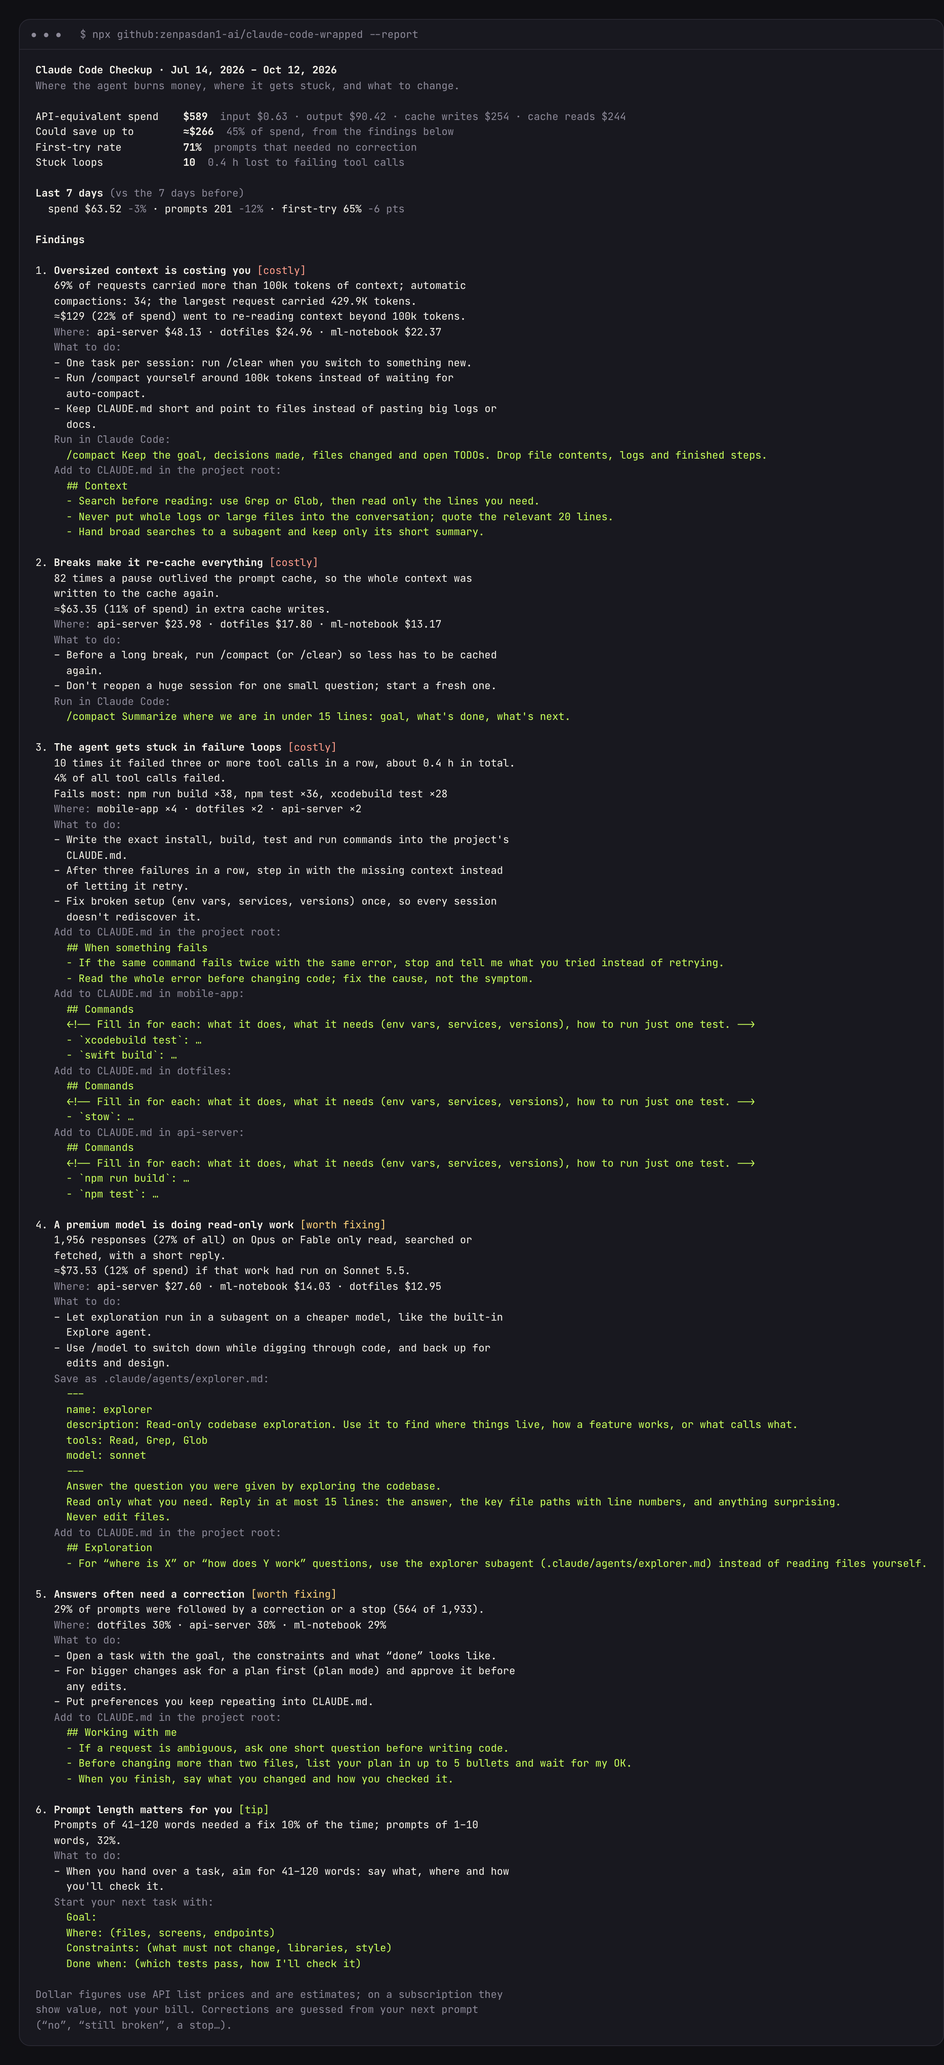
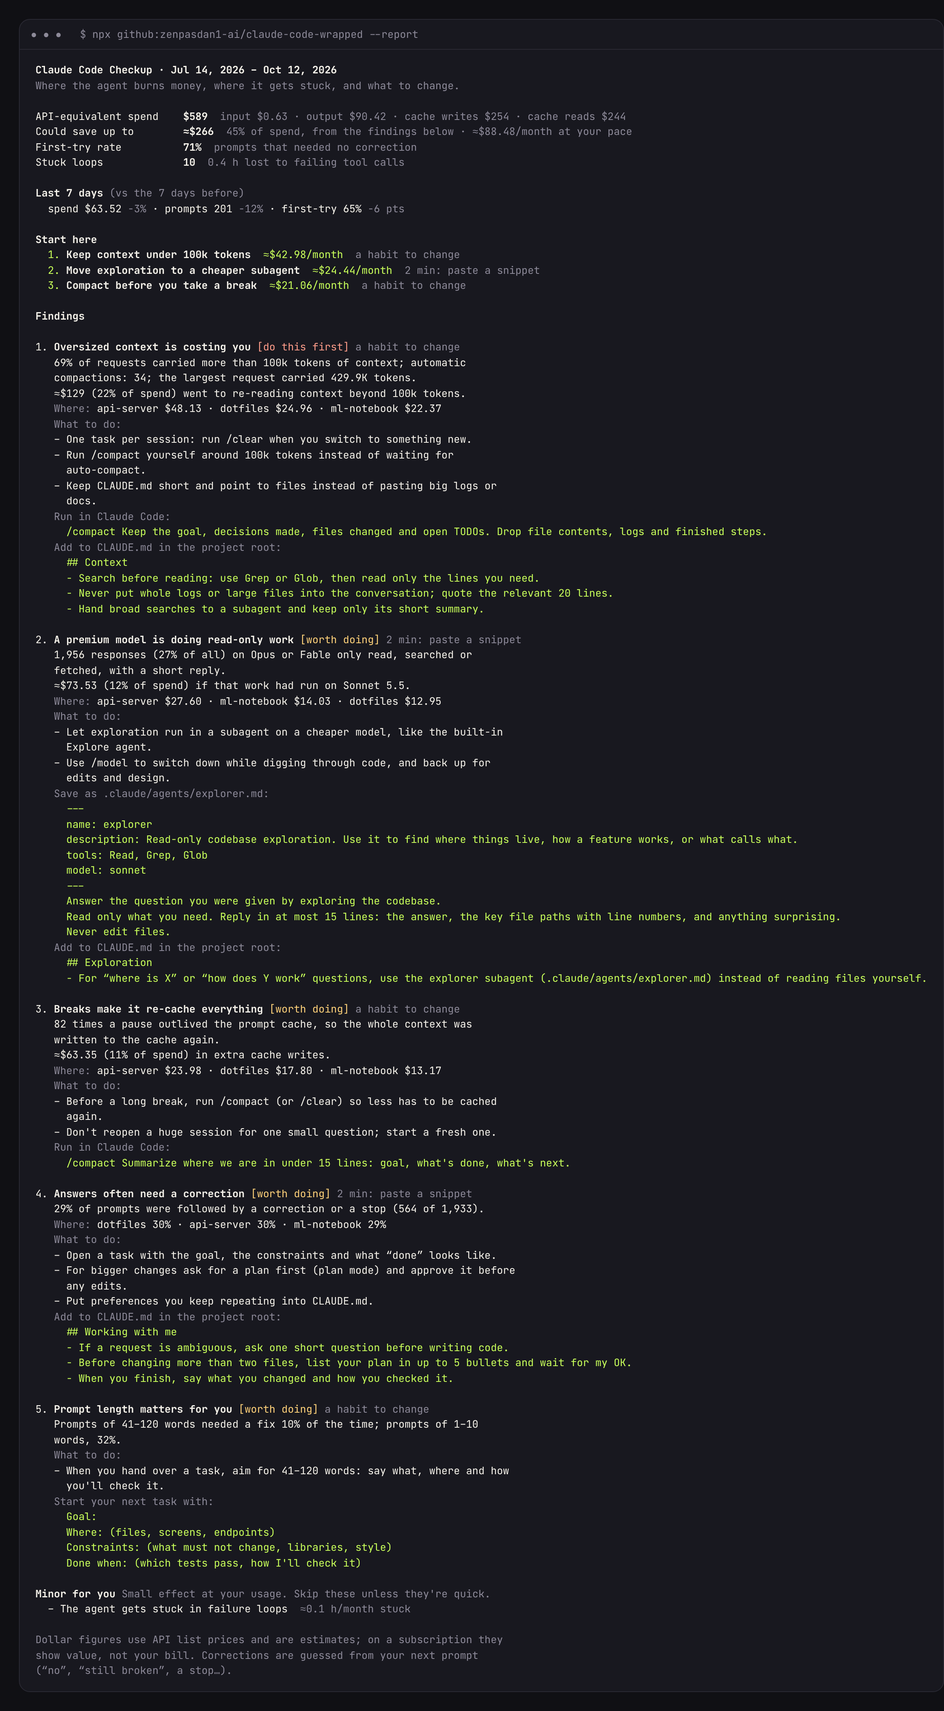
Rank findings by what they're worth to you; English by default
- Each finding is do-this-first, worth-doing or minor, from its value at
  the person's own pace (dollars or hours per month, correction rate)
  and the effort of the fix; minor ones are collapsed
- A Start here list with the top three, their monthly value and effort
- Monthly savings at your pace when there are 7+ days of history
- English by default on the page (Russian via the toggle, remembered)
  and in the terminal (--lang ru)

Claude-Session: https://claude.ai/code/session_01KKdcVECX1CrKS1fmTgwHWm

Changed region(s): [[0.0309, 0.0, 0.5564, 0.9963], [0.7419, 0.467, 0.7728, 0.4982], [0.4637, 0.9652, 0.4946, 0.9963]]

diff --git a/js/checkup.js b/js/checkup.js
@@ -9,6 +9,12 @@ const MIN_JUDGED = 20; // prompts with a known outcome before correction rates m
 const MIN_BUCKET = 15;
 const MIN_PROJECT_JUDGED = 10;
 const MIN_TOOL_RESULTS = 10;
+const MIN_DAYS_FOR_MONTHLY = 7; // shorter histories show totals instead of a monthly pace
+const LEVELS = ["high", "medium", "low"];
+// How much work each fix takes: paste a snippet, paste and fill in, or change a habit.
+const EFFORT = { context: "habit", cold: "habit", fit: "paste", loops: "fill", corrections: "paste", promptLength: "habit" };
+const EFFORT_ORDER = { paste: 0, fill: 1, habit: 2 };
+const PLAN_SIZE = 3;
 
 export function buildCheckup(acc, stats) {
   const total = stats.cost;
@@ -24,15 +30,21 @@ export function buildCheckup(acc, stats) {
   const tip = promptLengthTip(acc);
   if (tip) findings.push(tip);
 
-  const order = { bad: 0, warn: 1, tip: 2 };
-  findings.sort((a, b) => order[a.level] - order[b.level] || b.save - a.save);
+  const days = Math.max(1, (stats.to - stats.from) / DAY_MS);
+  const perMonth = days >= MIN_DAYS_FOR_MONTHLY ? (v) => (v * 30) / days : () => null;
+  for (const f of findings) prioritize(f, perMonth);
+  findings.sort((a, b) =>
+    LEVELS.indexOf(a.level) - LEVELS.indexOf(b.level) || b.save - a.save || EFFORT_ORDER[a.effort] - EFFORT_ORDER[b.effort]);
   const savings = findings.reduce((s, f) => s + (f.save || 0), 0);
 
   return {
     total,
+    days,
     spend: { ...acc.spend },
     savings,
+    savingsMonthly: perMonth(savings),
     savingsShare: total ? savings / total : 0,
+    plan: findings.filter((f) => f.level !== "low").slice(0, PLAN_SIZE),
     firstTry: acc.judged.prompts ? 1 - acc.judged.corrected / acc.judged.prompts : null,
     judged: acc.judged.prompts,
     loops: acc.loops.count,
@@ -57,7 +69,6 @@ function contextCheck(acc, total) {
   if (c.tax < Math.max(1, 0.05 * total)) return [null, { id: "context", value: facts.longShare }];
   return [{
     id: "context",
-    level: share >= 0.2 ? "bad" : "warn",
     save: c.tax,
     share,
     facts,
@@ -70,7 +81,6 @@ function coldCacheCheck(acc, total) {
   if (c.cost < Math.max(0.5, 0.03 * total)) return [null, acc.context.requests ? { id: "cold", value: c.events } : null];
   return [{
     id: "cold",
-    level: total && c.cost / total >= 0.1 ? "bad" : "warn",
     save: c.cost,
     share: total ? c.cost / total : 0,
     facts: { events: c.events },
@@ -84,7 +94,6 @@ function modelFitCheck(acc, total) {
   if (save < Math.max(0.5, 0.03 * total)) return [null, acc.context.requests ? { id: "fit", value: f.requests } : null];
   return [{
     id: "fit",
-    level: "warn",
     save,
     share: total ? save / total : 0,
     facts: { requests: f.requests, requestShare: acc.context.requests ? f.requests / acc.context.requests : 0 },
@@ -116,7 +125,6 @@ function loopsCheck(acc) {
     .filter(([, list]) => list.length);
   return [{
     id: "loops",
-    level: l.count >= 10 ? "bad" : "warn",
     save: 0,
     facts: { count: l.count, hours: l.ms / HOUR_MS, errorRate: errors / results, commands, commandsByProject, tools },
     projects,
@@ -130,7 +138,6 @@ function correctionsCheck(acc) {
   if (rate < 0.15) return [null, { id: "corrections", value: rate }];
   return [{
     id: "corrections",
-    level: rate >= 0.3 ? "bad" : "warn",
     save: 0,
     facts: { rate, corrected: j.corrected, judged: j.prompts },
     projects: topProjects(acc, (p) => (p.judged >= MIN_PROJECT_JUDGED ? p.corrected / p.judged : 0), (p) => p.corrected / p.judged),
@@ -148,11 +155,43 @@ function promptLengthTip(acc) {
   if (worst.rate - best.rate < 0.08 || best.rate * 1.5 > worst.rate) return null;
   return {
     id: "promptLength",
-    level: "tip",
     save: 0,
     facts: { best, worst, ratio: best.rate ? worst.rate / best.rate : null },
     projects: [],
   };
+}
+
+// Ranks a finding by what fixing it is worth to this person: money at their pace, hours stuck,
+// or how often answers miss. Anything small at their usage is "low" and gets collapsed.
+function prioritize(f, perMonth) {
+  f.effort = EFFORT[f.id];
+  f.monthly = f.save ? perMonth(f.save) : null;
+  const x = f.facts;
+  switch (f.id) {
+    case "context":
+    case "cold":
+    case "fit": {
+      const amount = f.monthly ?? f.save;
+      f.level = f.share >= 0.15 && amount >= 10 ? "high" : f.share >= 0.05 && amount >= 3 ? "medium" : "low";
+      break;
+    }
+    case "loops": {
+      x.hoursMonthly = perMonth(x.hours);
+      x.countMonthly = perMonth(x.count);
+      const hours = x.hoursMonthly ?? x.hours;
+      const count = x.countMonthly ?? x.count;
+      f.level = hours >= 2 || count >= 15 ? "high" : hours >= 0.5 || count >= 5 ? "medium" : "low";
+      break;
+    }
+    case "corrections":
+      f.level = x.rate >= 0.3 ? "high" : "medium";
+      break;
+    case "promptLength":
+      f.level = x.worst.rate - x.best.rate >= 0.15 && (x.ratio ?? Infinity) >= 2 ? "medium" : "low";
+      break;
+    default:
+      f.level = "low";
+  }
 }
 
 // The last 7 days against the 7 before them, ending at the newest activity.

diff --git a/js/i18n.js b/js/i18n.js
@@ -108,7 +108,26 @@ const EN = {
   ckDo: "What to do",
   ckHealthy: "Looking good",
   ckNote: "Dollar figures use API list prices and are estimates; on a subscription they show value, not your bill. Corrections are guessed from your next prompt (“no”, “still broken”, a stop…).",
-  ckLevel: { bad: "costly", warn: "worth fixing", tip: "tip" },
+  ckLevel: { high: "do this first", medium: "worth doing", low: "minor" },
+  ckEffort: { paste: "2 min: paste a snippet", fill: "10 min: paste and fill in", habit: "a habit to change" },
+  startHere: "Start here",
+  startHereLead: "Ranked by what it's worth at your usage and how little it takes.",
+  startHereNone: "Nothing here is worth your time right now. Keep doing what you do.",
+  gainMonth: "≈{money}/month",
+  gainTotal: "≈{money} in this period",
+  gainHoursMonth: "≈{hours} h/month stuck",
+  gainLoops: "{count} stuck loops",
+  gainCorrections: "{rate} of prompts need a fix",
+  gainPromptLength: "fixes drop from {worst} to {best}",
+  plan_context: "Keep context under 100k tokens",
+  plan_cold: "Compact before you take a break",
+  plan_fit: "Move exploration to a cheaper subagent",
+  plan_loops: "Write your build and test commands into CLAUDE.md",
+  plan_corrections: "Set the goal and ask for a plan up front",
+  plan_promptLength: "Write {best}-word task briefs",
+  minorTitle: "Minor for you",
+  minorLead: "Small effect at your usage. Skip these unless they're quick.",
+  ckSavingsMonth: "≈{money}/month at your pace",
   ckBuckets: ["1–10", "11–40", "41–120", "120+"],
   f_context_title: "Oversized context is costing you",
   f_context_line: "{longShare} of requests carried more than 100k tokens of context; automatic compactions: {compactions}; the largest request carried {max} tokens.",
@@ -338,7 +357,26 @@ const RU = {
   ckDo: "Что сделать",
   ckHealthy: "Всё в порядке",
   ckNote: "Суммы посчитаны по прайсу API и примерные; на подписке это ценность, а не ваш счёт. Поправки угадываются по следующему промпту («нет», «всё равно не работает», стоп…).",
-  ckLevel: { bad: "дорого", warn: "стоит исправить", tip: "совет" },
+  ckLevel: { high: "сделать в первую очередь", medium: "стоит сделать", low: "незначительно" },
+  ckEffort: { paste: "2 мин: вставить фрагмент", fill: "10 мин: вставить и заполнить", habit: "поменять привычку" },
+  startHere: "Начните с этого",
+  startHereLead: "По порядку: сколько это даёт при вашем использовании и сколько усилий требует.",
+  startHereNone: "Сейчас ничего не стоит вашего времени. Продолжайте в том же духе.",
+  gainMonth: "≈{money}/мес.",
+  gainTotal: "≈{money} за период",
+  gainHoursMonth: "≈{hours} ч/мес. в застреваниях",
+  gainLoops: "застреваний: {count}",
+  gainCorrections: "{rate} промптов требуют поправки",
+  gainPromptLength: "поправок станет {best} вместо {worst}",
+  plan_context: "Держите контекст меньше 100 тыс. токенов",
+  plan_cold: "Сжимайте контекст перед перерывом",
+  plan_fit: "Отдайте исследование кода дешёвому подагенту",
+  plan_loops: "Запишите команды сборки и тестов в CLAUDE.md",
+  plan_corrections: "Ставьте цель и просите план заранее",
+  plan_promptLength: "Пишите задачи по {best} слов",
+  minorTitle: "Для вас незначительно",
+  minorLead: "При вашем использовании эффект маленький. Делайте, только если это быстро.",
+  ckSavingsMonth: "≈{money}/мес. в вашем темпе",
   ckBuckets: ["1–10", "11–40", "41–120", "120+"],
   f_context_title: "Раздутый контекст стоит денег",
   f_context_line: "{longShare} запросов несли больше 100 тыс. токенов контекста; автоматических сжатий: {compactions}; самый большой запрос нёс {max} токенов.",
@@ -462,9 +500,8 @@ const RU = {
 
 const DICTS = { en: EN, ru: RU };
 
-// Node 21+ has navigator too, so the terminal report follows the system language.
-const systemLanguage = typeof navigator !== "undefined" && navigator.language ? navigator.language : "en";
-export let lang = systemLanguage.toLowerCase().startsWith("ru") ? "ru" : "en";
+// English unless someone picks Russian (the page's toggle, or --lang ru in the terminal).
+export let lang = "en";
 
 export function setLang(next) {
   lang = DICTS[next] ? next : "en";

diff --git a/js/report.js b/js/report.js
@@ -1,6 +1,6 @@
 // The checkup page: totals, the last week, findings with fixes, and what's already fine.
 
-import { delta, describeFinding, describeHealthy } from "./checkup-text.js";
+import { delta, describeFinding, describeHealthy, describePlanItem } from "./checkup-text.js";
 import { buildFixes, claudeMdAdditions } from "./fixes.js";
 import { date, fill, money, num, percent, t } from "./i18n.js";
 
@@ -13,6 +13,8 @@ const SPEND_PARTS = [
 
 export function renderReport(s) {
   const c = s.checkup;
+  const main = c.findings.filter((f) => f.level !== "low");
+  const minor = c.findings.filter((f) => f.level === "low");
   return `
     <header class="report-head">
       <p class="kicker">${t("checkupKicker")} · ${date(s.from)} – ${date(s.to)}</p>
@@ -22,15 +24,23 @@ export function renderReport(s) {
 
     <div class="kpis">
       ${kpi(t("ckSpend"), money(c.total), spendBar(c))}
-      ${kpi(t("ckSavings"), c.savings > 0 ? t("ckSavingsValue", { money: money(c.savings) }) : t("ckNoSavings"), c.savings > 0 ? `<p class="kpi-sub">${t("ckSavingsSub", { share: percent(c.savingsShare) })}</p>` : "", c.savings > 0 ? "is-hot" : "")}
+      ${kpi(t("ckSavings"), c.savings > 0 ? t("ckSavingsValue", { money: money(c.savings) }) : t("ckNoSavings"), c.savings > 0 ? `<p class="kpi-sub">${t("ckSavingsSub", { share: percent(c.savingsShare) })}${c.savingsMonthly !== null ? `<br>${t("ckSavingsMonth", { money: money(c.savingsMonthly) })}` : ""}</p>` : "", c.savings > 0 ? "is-hot" : "")}
       ${c.firstTry !== null ? kpi(t("ckFirstTry"), percent(c.firstTry), `<p class="kpi-sub">${t("ckFirstTrySub")}</p>`) : ""}
       ${kpi(t("ckLoops"), num(c.loops), `<p class="kpi-sub">${t("ckLoopsSub", { hours: num(c.loopHours, 1) })}</p>`)}
     </div>
 
+    ${plan(c)}
+
     ${week(c.week)}
 
     <h3 class="section-title">${t("ckFindings")}</h3>
-    ${c.findings.length ? `<ol class="findings">${c.findings.map(finding).join("")}</ol>` : `<p class="line">${t("ckNoFindings")}</p>`}
+    ${main.length ? `<ol class="findings">${main.map(finding).join("")}</ol>` : `<p class="line">${t("ckNoFindings")}</p>`}
+    ${minor.length ? `
+      <details class="minor">
+        <summary><span class="section-title">${t("minorTitle")}</span> <span class="muted">(${minor.length})</span></summary>
+        <p class="sub">${t("minorLead")}</p>
+        <ol class="findings">${minor.map(finding).join("")}</ol>
+      </details>` : ""}
 
     ${allClaudeMd(c.findings)}
 
@@ -43,6 +53,19 @@ export function renderReport(s) {
     <div class="report-cta">
       <button class="btn btn-hot play-story" type="button">${t("playStory")} →</button>
     </div>`;
+}
+
+function plan(c) {
+  if (!c.findings.length) return "";
+  const items = c.plan.map((f) => {
+    const p = describePlanItem(f);
+    return `<li><a href="#finding-${f.id}">${esc(p.action)}</a><span class="plan-gain">${esc(p.gain)}</span><span class="plan-effort">${esc(p.effort)}</span></li>`;
+  });
+  return `
+    <section class="plan">
+      <p class="kicker">${t("startHere")}</p>
+      ${items.length ? `<ol>${items.join("")}</ol><p class="sub">${t("startHereLead")}</p>` : `<p class="line">${t("startHereNone")}</p>`}
+    </section>`;
 }
 
 function kpi(label, value, extra = "", cls = "") {
@@ -73,10 +96,10 @@ function week(w) {
 function finding(f) {
   const d = describeFinding(f);
   return `
-    <li class="finding is-${f.level}">
+    <li class="finding is-${f.level}" id="finding-${f.id}">
       <div class="finding-head">
         <h4>${esc(d.title)}</h4>
-        <span class="badge">${t("ckLevel")[f.level]}</span>
+        <span class="badge">${t("ckLevel")[f.level]} · ${t("ckEffort")[f.effort]}</span>
       </div>
       ${f.save > 0 ? `<p class="finding-save">${esc(d.save)}</p>` : ""}
       <p>${esc(d.line)}</p>

diff --git a/css/site.css b/css/site.css
@@ -306,15 +306,32 @@ a.btn { text-decoration: none; }
 .section-title { margin: 40px 0 14px; font: 800 26px var(--display); letter-spacing: -0.01em; }
 .findings { display: grid; gap: 14px; margin: 0; padding: 0; list-style: none; counter-reset: finding; }
 .finding { padding: 20px 22px; border: 1px solid var(--line); border-left: 4px solid var(--muted); border-radius: 16px; background: var(--panel); }
-.finding.is-bad { border-left-color: #ff9d8a; }
-.finding.is-warn { border-left-color: #ffd27a; }
-.finding.is-tip { border-left-color: var(--lime); }
+.finding.is-high { border-left-color: #ff9d8a; }
+.finding.is-medium { border-left-color: #ffd27a; }
+.finding.is-low { border-left-color: var(--line); }
 .finding-head { display: flex; flex-wrap: wrap; align-items: baseline; justify-content: space-between; gap: 6px 12px; }
 .finding h4 { margin: 0; font: 800 clamp(19px, 2.4vw, 23px)/1.2 var(--display); }
 .badge { padding: 2px 10px; border-radius: 999px; background: var(--bg); color: var(--muted); font-size: 12px; white-space: nowrap; }
-.is-bad .badge { color: #ff9d8a; }
-.is-warn .badge { color: #ffd27a; }
-.is-tip .badge { color: var(--lime); }
+.is-high .badge { color: #ff9d8a; }
+.is-medium .badge { color: #ffd27a; }
+.badge { white-space: normal; }
+
+.plan { margin-top: 12px; padding: 18px; border: 1px solid var(--lime); border-radius: 16px; background: rgba(200, 255, 90, 0.04); }
+.plan .kicker { margin: 0; }
+.plan ol { margin: 12px 0 0; padding-left: 22px; display: grid; gap: 10px; }
+.plan li { padding-left: 4px; }
+.plan li::marker { color: var(--lime); font-weight: 600; }
+.plan a { color: var(--ink); font: 800 clamp(17px, 2vw, 20px)/1.3 var(--display); text-decoration: none; }
+.plan a:hover { text-decoration: underline; text-underline-offset: 4px; }
+.plan-gain { display: inline-block; margin-left: 10px; color: var(--lime); font-weight: 600; }
+.plan-effort { display: block; color: var(--muted); font-size: 12px; }
+.plan .sub { margin-top: 12px; }
+
+.minor { margin-top: 28px; }
+.minor summary { cursor: pointer; list-style-position: outside; }
+.minor summary .section-title { display: inline; margin: 0; font-size: 20px; }
+.minor .findings { margin-top: 12px; opacity: 0.85; }
+.finding { scroll-margin-top: 16px; }
 .finding p { margin: 10px 0 0; text-wrap: pretty; }
 .finding-save { color: var(--lime); font-weight: 600; }
 .where { color: var(--ink); font-size: 13px; }

diff --git a/js/main.js b/js/main.js
@@ -9,6 +9,7 @@ import { buildSlides, countUp } from "./story.js";
 const COPY_CMD = "cp -r ~/.claude/projects ~/Desktop/claude-transcripts";
 const CLI_CMD = "npx github:zenpasdan1-ai/claude-code-wrapped";
 const DAY_MS = 86_400_000;
+const LANG_KEY = "ccw-lang";
 const reduceMotion = window.matchMedia("(prefers-reduced-motion: reduce)").matches;
 const $ = (s, root = document) => root.querySelector(s);
 
@@ -24,7 +25,7 @@ let source = null; // { kind: "demo" } or { kind: "files", files, local? }
 let format = "post";
 let showNames = false;
 
-setLang(lang);
+setLang(savedLang() || "en");
 renderStatic();
 paintPreview();
 
@@ -36,6 +37,11 @@ $(".demo").addEventListener("click", () => run({ kind: "demo" }));
 for (const toggle of document.querySelectorAll(".lang-toggle")) {
   toggle.addEventListener("click", () => {
     setLang(lang === "ru" ? "en" : "ru");
+    try {
+      localStorage.setItem(LANG_KEY, lang);
+    } catch {
+      // Private mode or blocked storage: the choice just won't stick.
+    }
     renderStatic();
     paintPreview();
     if (current && !story.hidden) showStory(index);
@@ -315,6 +321,14 @@ window.addEventListener("keydown", (e) => {
 });
 
 // ---- helpers ----
+
+function savedLang() {
+  try {
+    return localStorage.getItem(LANG_KEY);
+  } catch {
+    return null;
+  }
+}
 
 function renderStatic() {
   for (const node of document.querySelectorAll("[data-t]")) node.textContent = t(node.dataset.t);

diff --git a/js/checkup-text.js b/js/checkup-text.js
@@ -59,6 +59,18 @@ export function describeFinding(f) {
   }
 }
 
+// One line for the "Start here" list: what to do, what it's worth, how much work it is.
+export function describePlanItem(f) {
+  const x = f.facts;
+  let gain = "";
+  if (f.save > 0) gain = f.monthly !== null ? t("gainMonth", { money: money(f.monthly) }) : t("gainTotal", { money: money(f.save) });
+  else if (f.id === "loops") gain = x.hoursMonthly !== null && x.hoursMonthly >= 0.1 ? t("gainHoursMonth", { hours: num(x.hoursMonthly, 1) }) : t("gainLoops", { count: num(x.count) });
+  else if (f.id === "corrections") gain = t("gainCorrections", { rate: percent(x.rate) });
+  else if (f.id === "promptLength") gain = t("gainPromptLength", { worst: percent(x.worst.rate), best: percent(x.best.rate) });
+  const best = f.id === "promptLength" ? t("ckBuckets")[x.best.i] : "";
+  return { action: t(`plan_${f.id}`, { best }), gain, effort: t("ckEffort")[f.effort] };
+}
+
 export function describeHealthy(h) {
   const value = h.id === "context" || h.id === "loops" || h.id === "corrections" ? percent(h.value) : num(h.value);
   return t(`h_${h.id}`, { value });

diff --git a/README.md b/README.md
@@ -30,6 +30,11 @@ re-caching the whole context after breaks longer than the cache lasts. Both have
 | **Corrections** | Prompts followed by a correction (“no”, “still broken”, “не то”…) or a stop, per project | Goal, constraints and “done” up front; plan mode for big changes |
 | **Prompt length** | Correction rate by prompt length, shown only when the gap is large enough to trust | The length that works for you |
 
+Findings are **ranked for you**: *do this first*, *worth doing*, or *minor* (collapsed), by what
+they're worth at your own usage (dollars per month, hours stuck, how often answers miss) and how
+little work the fix takes. A **Start here** list puts the top three at the top with their value
+and effort, so you know what to do and what to skip.
+
 Each finding comes with a **copy-paste fix**: a short `CLAUDE.md` section (your project's own
 failing commands, ready to fill in; rules for when something fails; how to work with you), a
 read-only `explorer` subagent on Sonnet for `.claude/agents/`, a `/compact` command that says what
@@ -69,13 +74,14 @@ archetype (Night Owl, Polite Coder, Opus Maximalist…). Share it as a 1200×675
 - **One command** (Node 18.17+): `npx github:zenpasdan1-ai/claude-code-wrapped`. It finds
   `$CLAUDE_CONFIG_DIR/projects`, `~/.claude/projects` or `~/.config/claude/projects`, serves the
   page on `127.0.0.1` and opens it. Pass a folder to read somewhere else. Options: `--report`,
-  `--days <n>`, `--port <n>`, `--no-open`.
+  `--days <n>`, `--lang ru`, `--port <n>`, `--no-open`.
 - **In the browser**: open the [site](https://zenpasdan1-ai.github.io/claude-code-wrapped/) and choose
   `~/.claude/projects` (on macOS press ⌘⇧. to show hidden folders), pick `.jsonl` files, or drop the folder.
 - **Just looking**: the [demo checkup](https://zenpasdan1-ai.github.io/claude-code-wrapped/#demo) and the
   [demo story](https://zenpasdan1-ai.github.io/claude-code-wrapped/#demo-story) use generated data.
 
-Every period works: all time, this year, the last 90 or 30 days.
+Every period works: all time, this year, the last 90 or 30 days. The interface is in English, with
+Russian one click away.
 
 ![Landing page](docs/landing.png)
 
